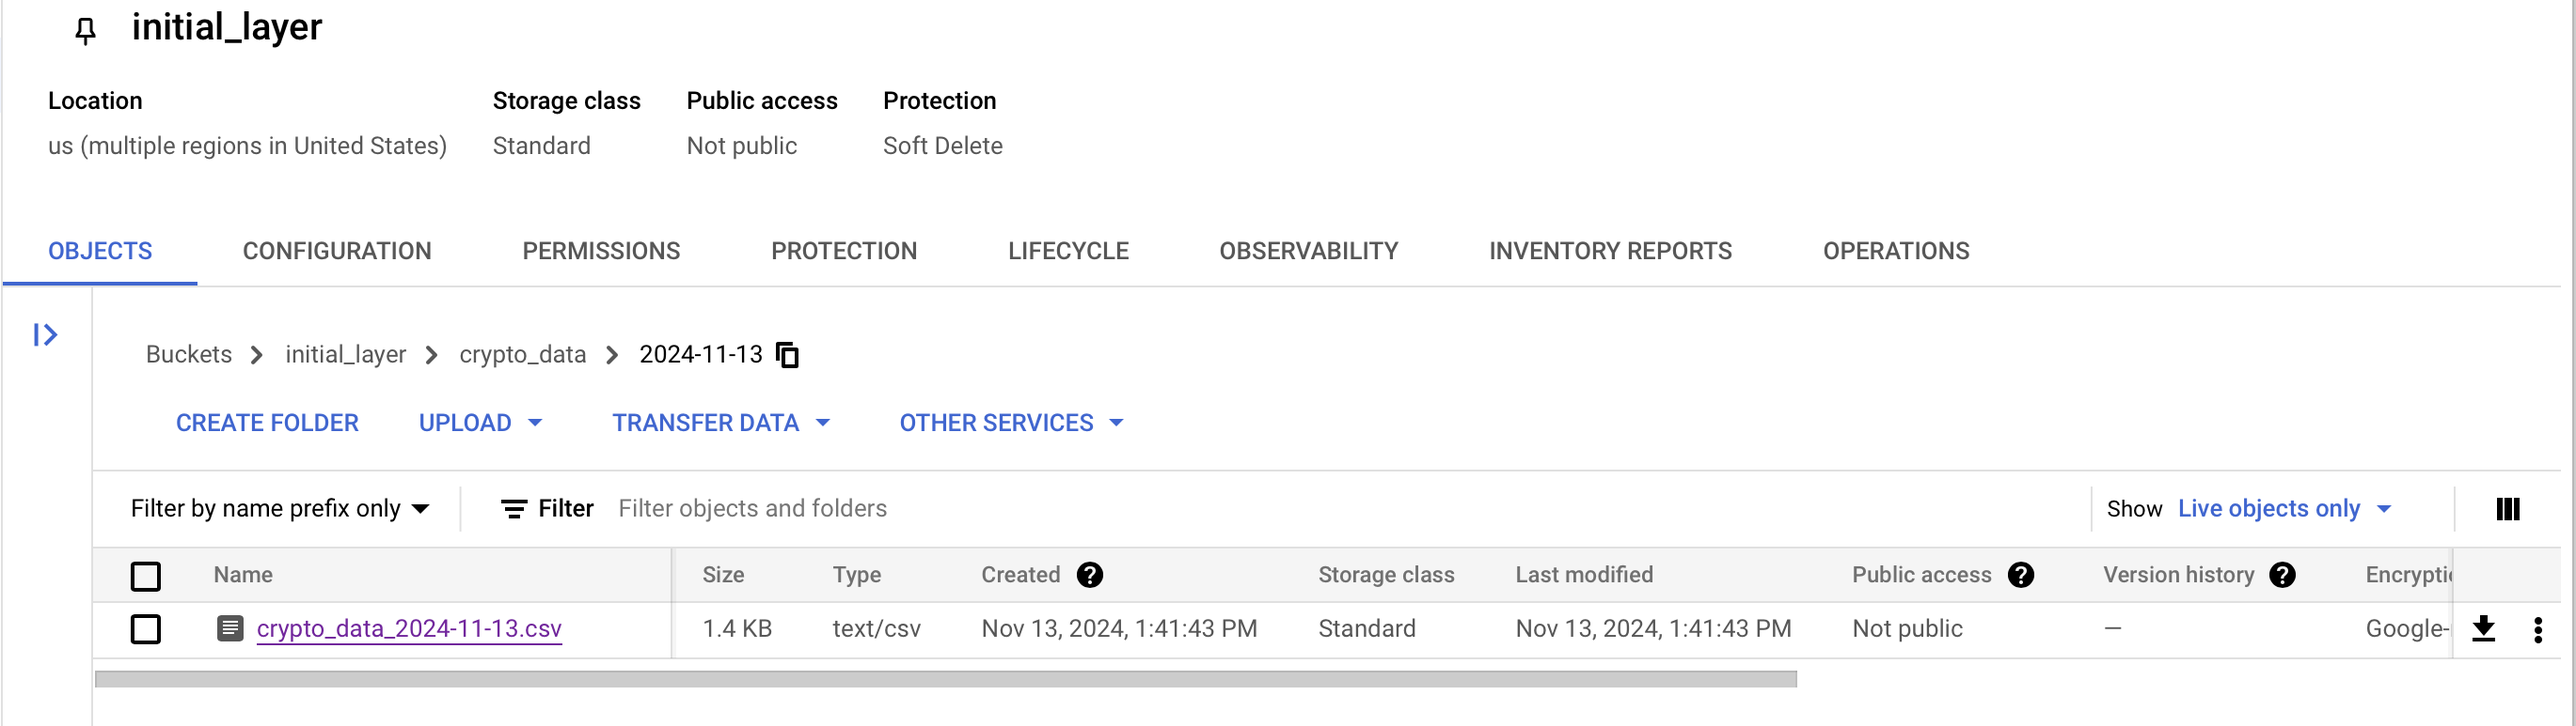
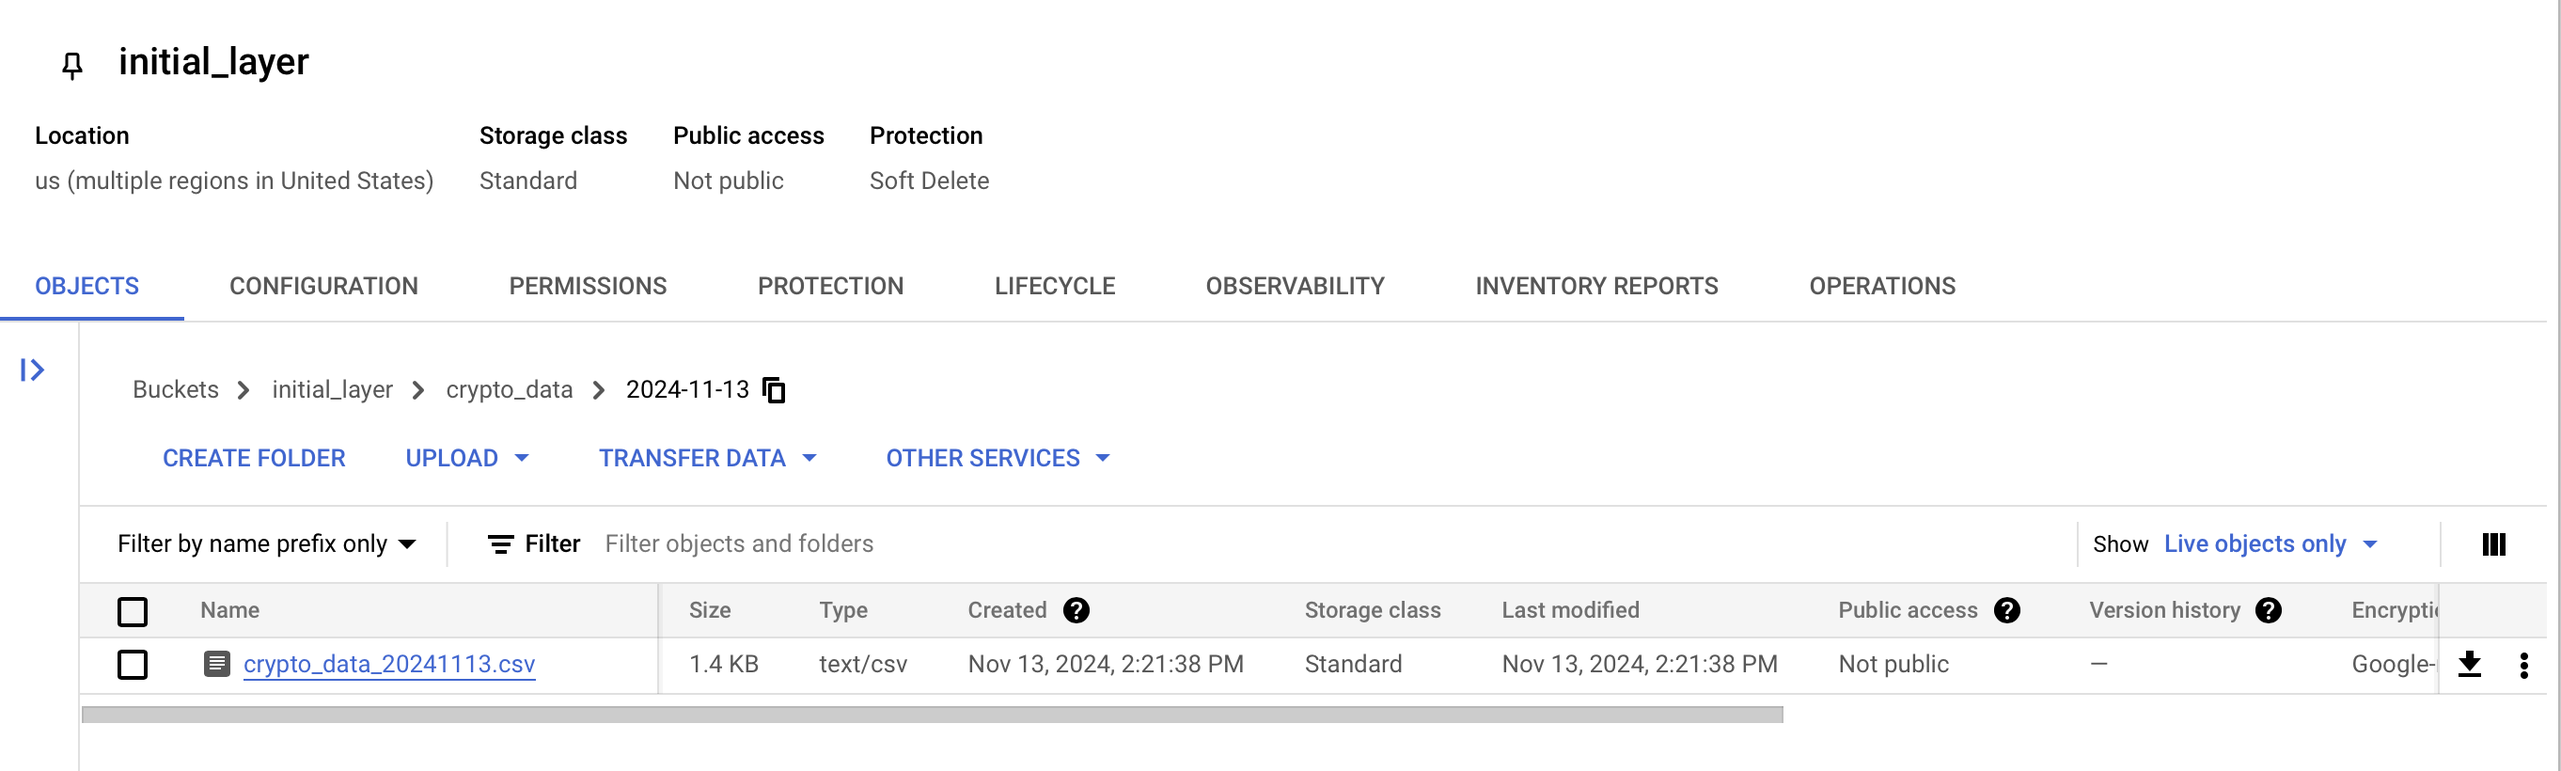
update

diff --git a/dag_file/crypto_dag.py b/dag_file/crypto_dag.py
@@ -19,6 +19,7 @@ def fetch_and_upload_crypto_data():
 
     # Get current date for filename
     current_date = datetime.now().strftime("%Y-%m-%d")
+    current_date_filename = datetime.now().strftime("%Y%m%d")
     
     # List of coins you want to fetch
     coins = ['bitcoin', 'ethereum', 'tether', 'binancecoin', 'solana']
@@ -90,7 +91,7 @@ def fetch_and_upload_crypto_data():
         # Convert all collected data to a DataFrame
         df = pd.DataFrame(all_data)  # Use DataFrame directly from the cleaned list
         
-        local_file_path = f'/tmp/crypto_data_{current_date}.csv'
+        local_file_path = f'/tmp/crypto_data_{current_date_filename}.csv'
         
         # Save the DataFrame as a csv file
         df.to_csv(local_file_path, index=False)
@@ -98,7 +99,7 @@ def fetch_and_upload_crypto_data():
         # Initialize GCS client and upload the file
         client = storage.Client()
         bucket = client.get_bucket('initial_layer')
-        blob = bucket.blob(f'crypto_data/{current_date}/crypto_data_{current_date}.csv')
+        blob = bucket.blob(f'crypto_data/{current_date}/crypto_data_{current_date_filename}.csv')
         blob.upload_from_filename(local_file_path)
         
         print("Data uploaded to GCS successfully.")
@@ -122,7 +123,7 @@ def load_data_to_bigquery():
         source_format = bigquery.SourceFormat.CSV,
         skip_leading_rows = 1,
         autodetect = True,  # Automatically detects the schema
-        write_disposition = bigquery.WriteDisposition.WRITE_APPEND,  # Append data to the existing table
+        write_disposition = bigquery.WriteDisposition.WRITE_TRUNCATE,  # Overwrite data for the same partition
         create_disposition = bigquery.CreateDisposition.CREATE_IF_NEEDED,  # Create the table if it doesn't exist
         schema_update_options = ['ALLOW_FIELD_ADDITION'],  # Allow new fields to be added to the schema
         time_partitioning = bigquery.table.TimePartitioning(
@@ -209,8 +210,8 @@ default_args = {
 with DAG(
     'crypto_data_pipeline',
     default_args = default_args,
-    description = 'A DAG to fetch crypto data, store on GCS, and process in Databricks',
-    schedule_interval = '0 3 * * *'  # Run daily at 3:30 AM UTC / 9:00 AM IST
+    description = 'A DAG to fetch crypto data, store on GCS, and process on BigQuery',
+    schedule_interval = '30 4 * * *'  # Run at 4:30 AM UTC / 10:00 AM IST
 ) as dag:
 
     # Start task to print timestamp
